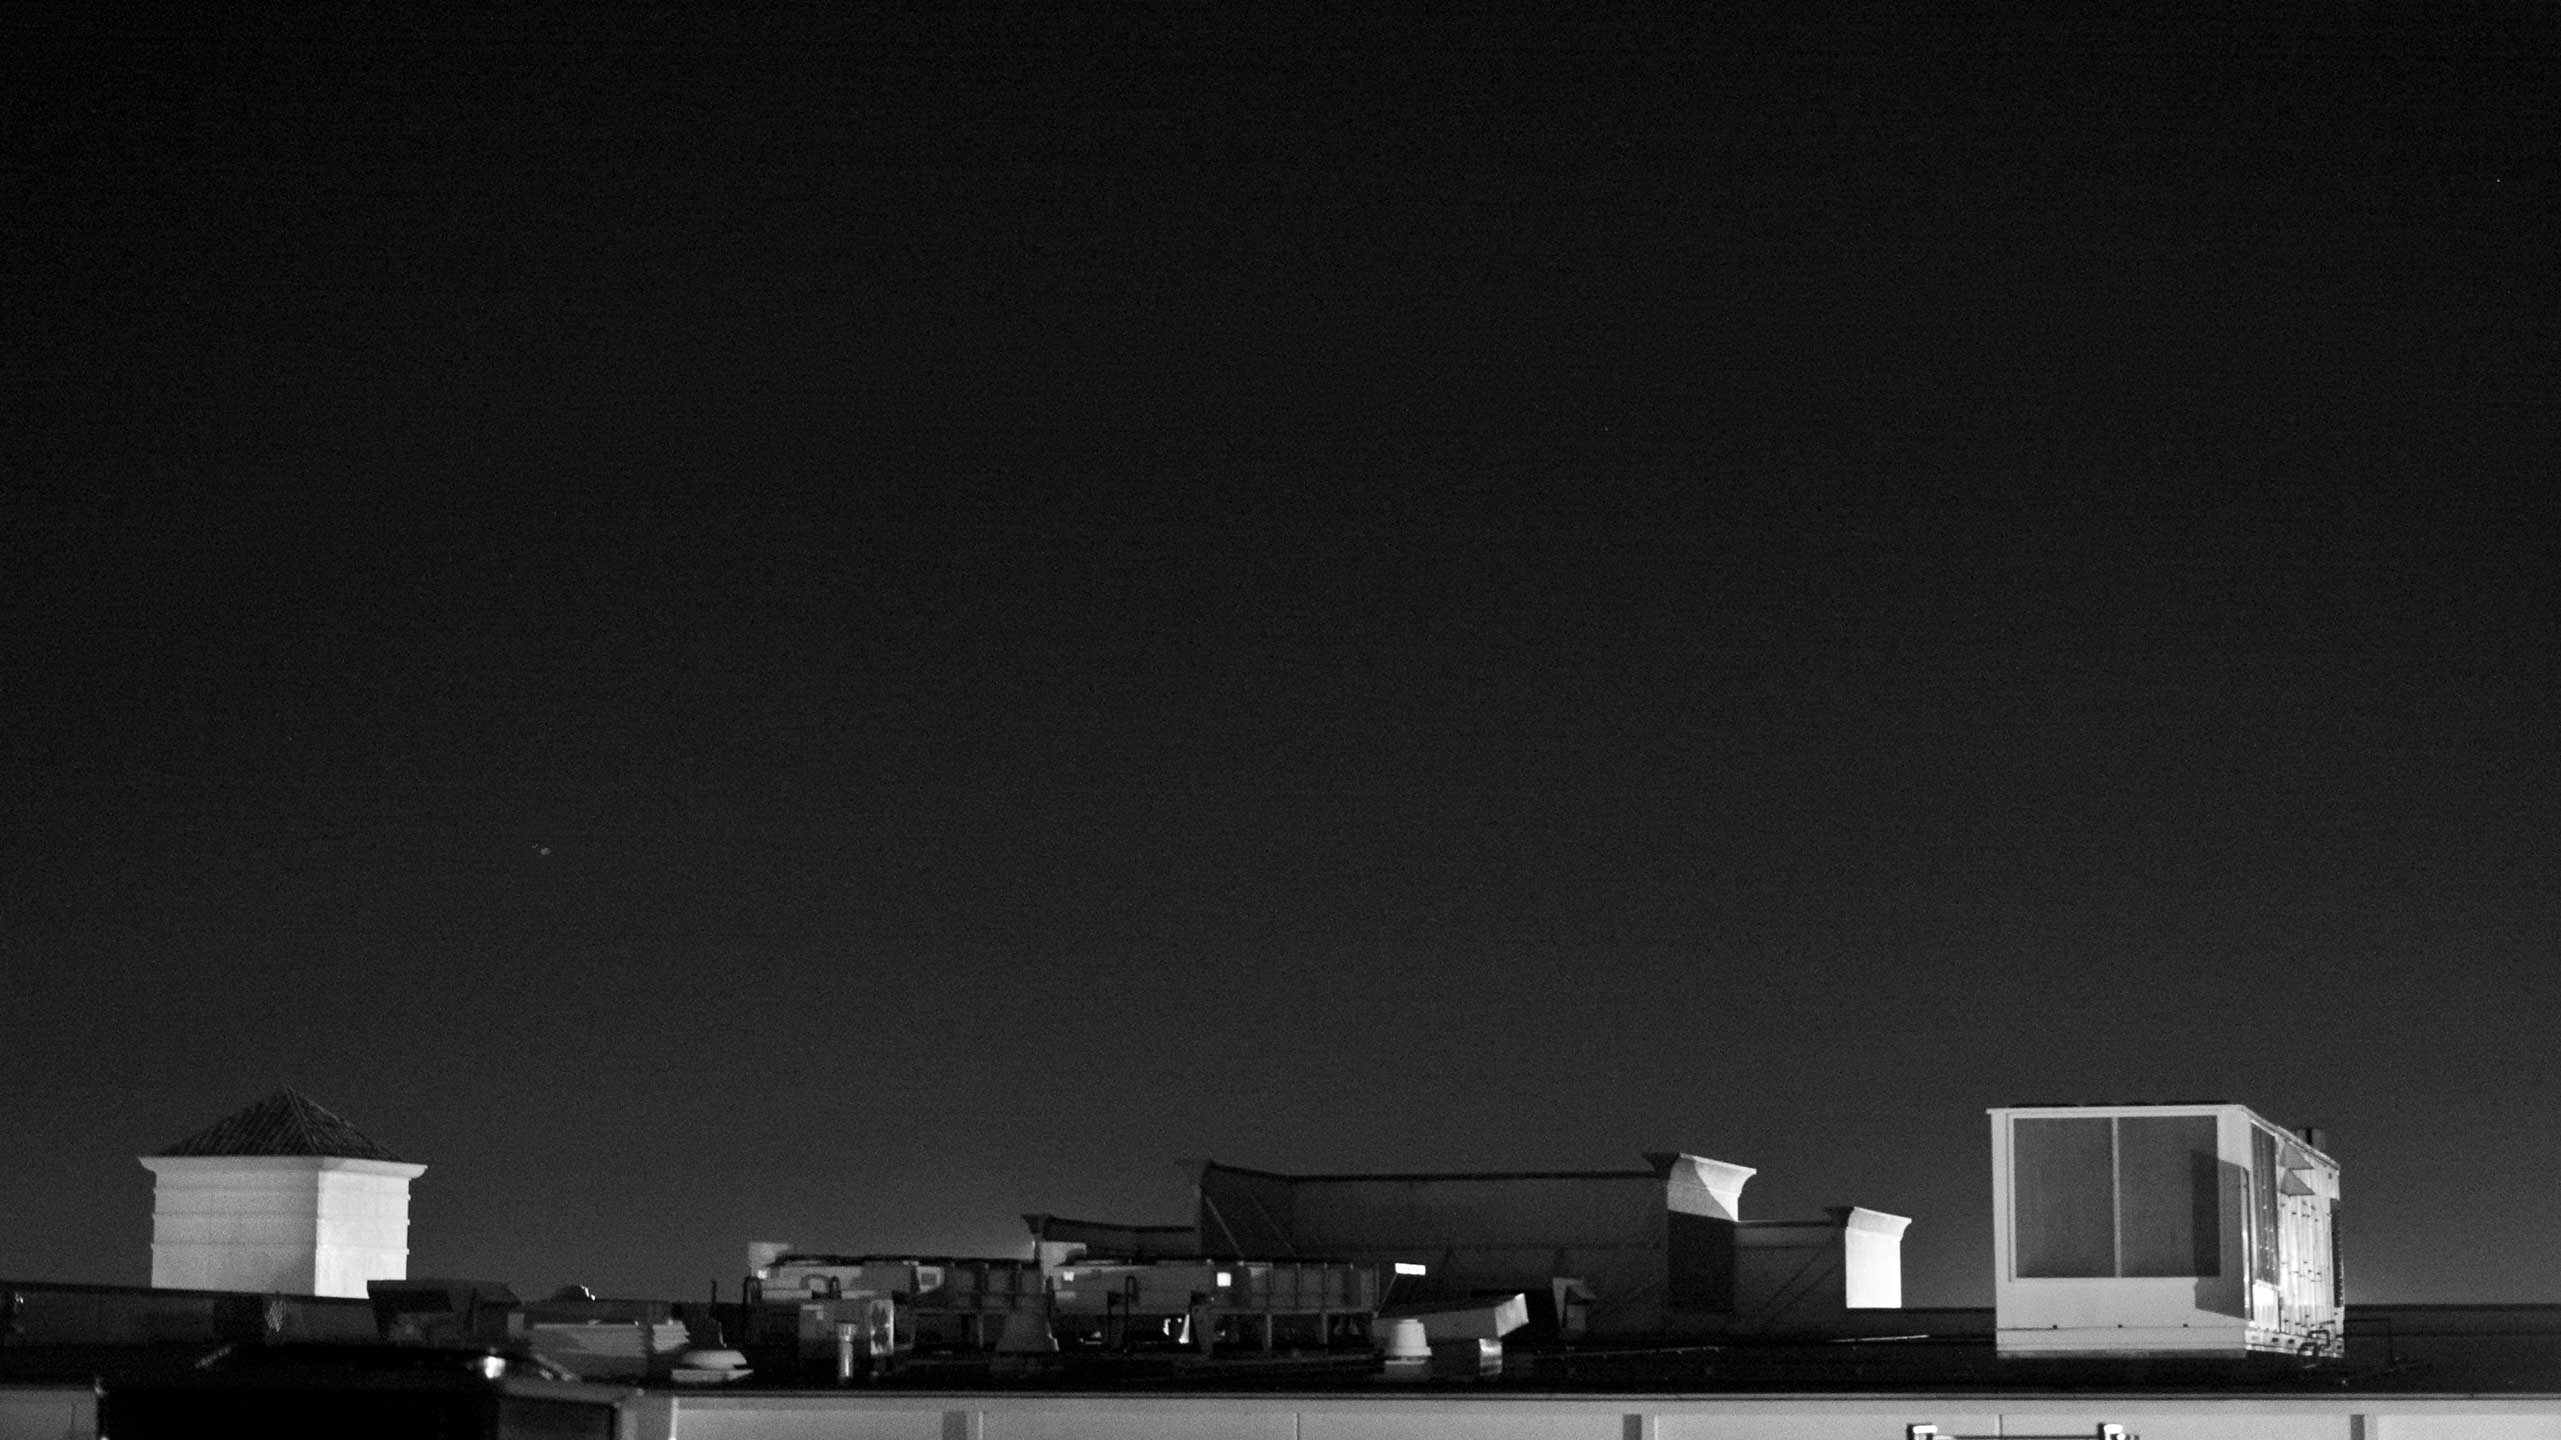
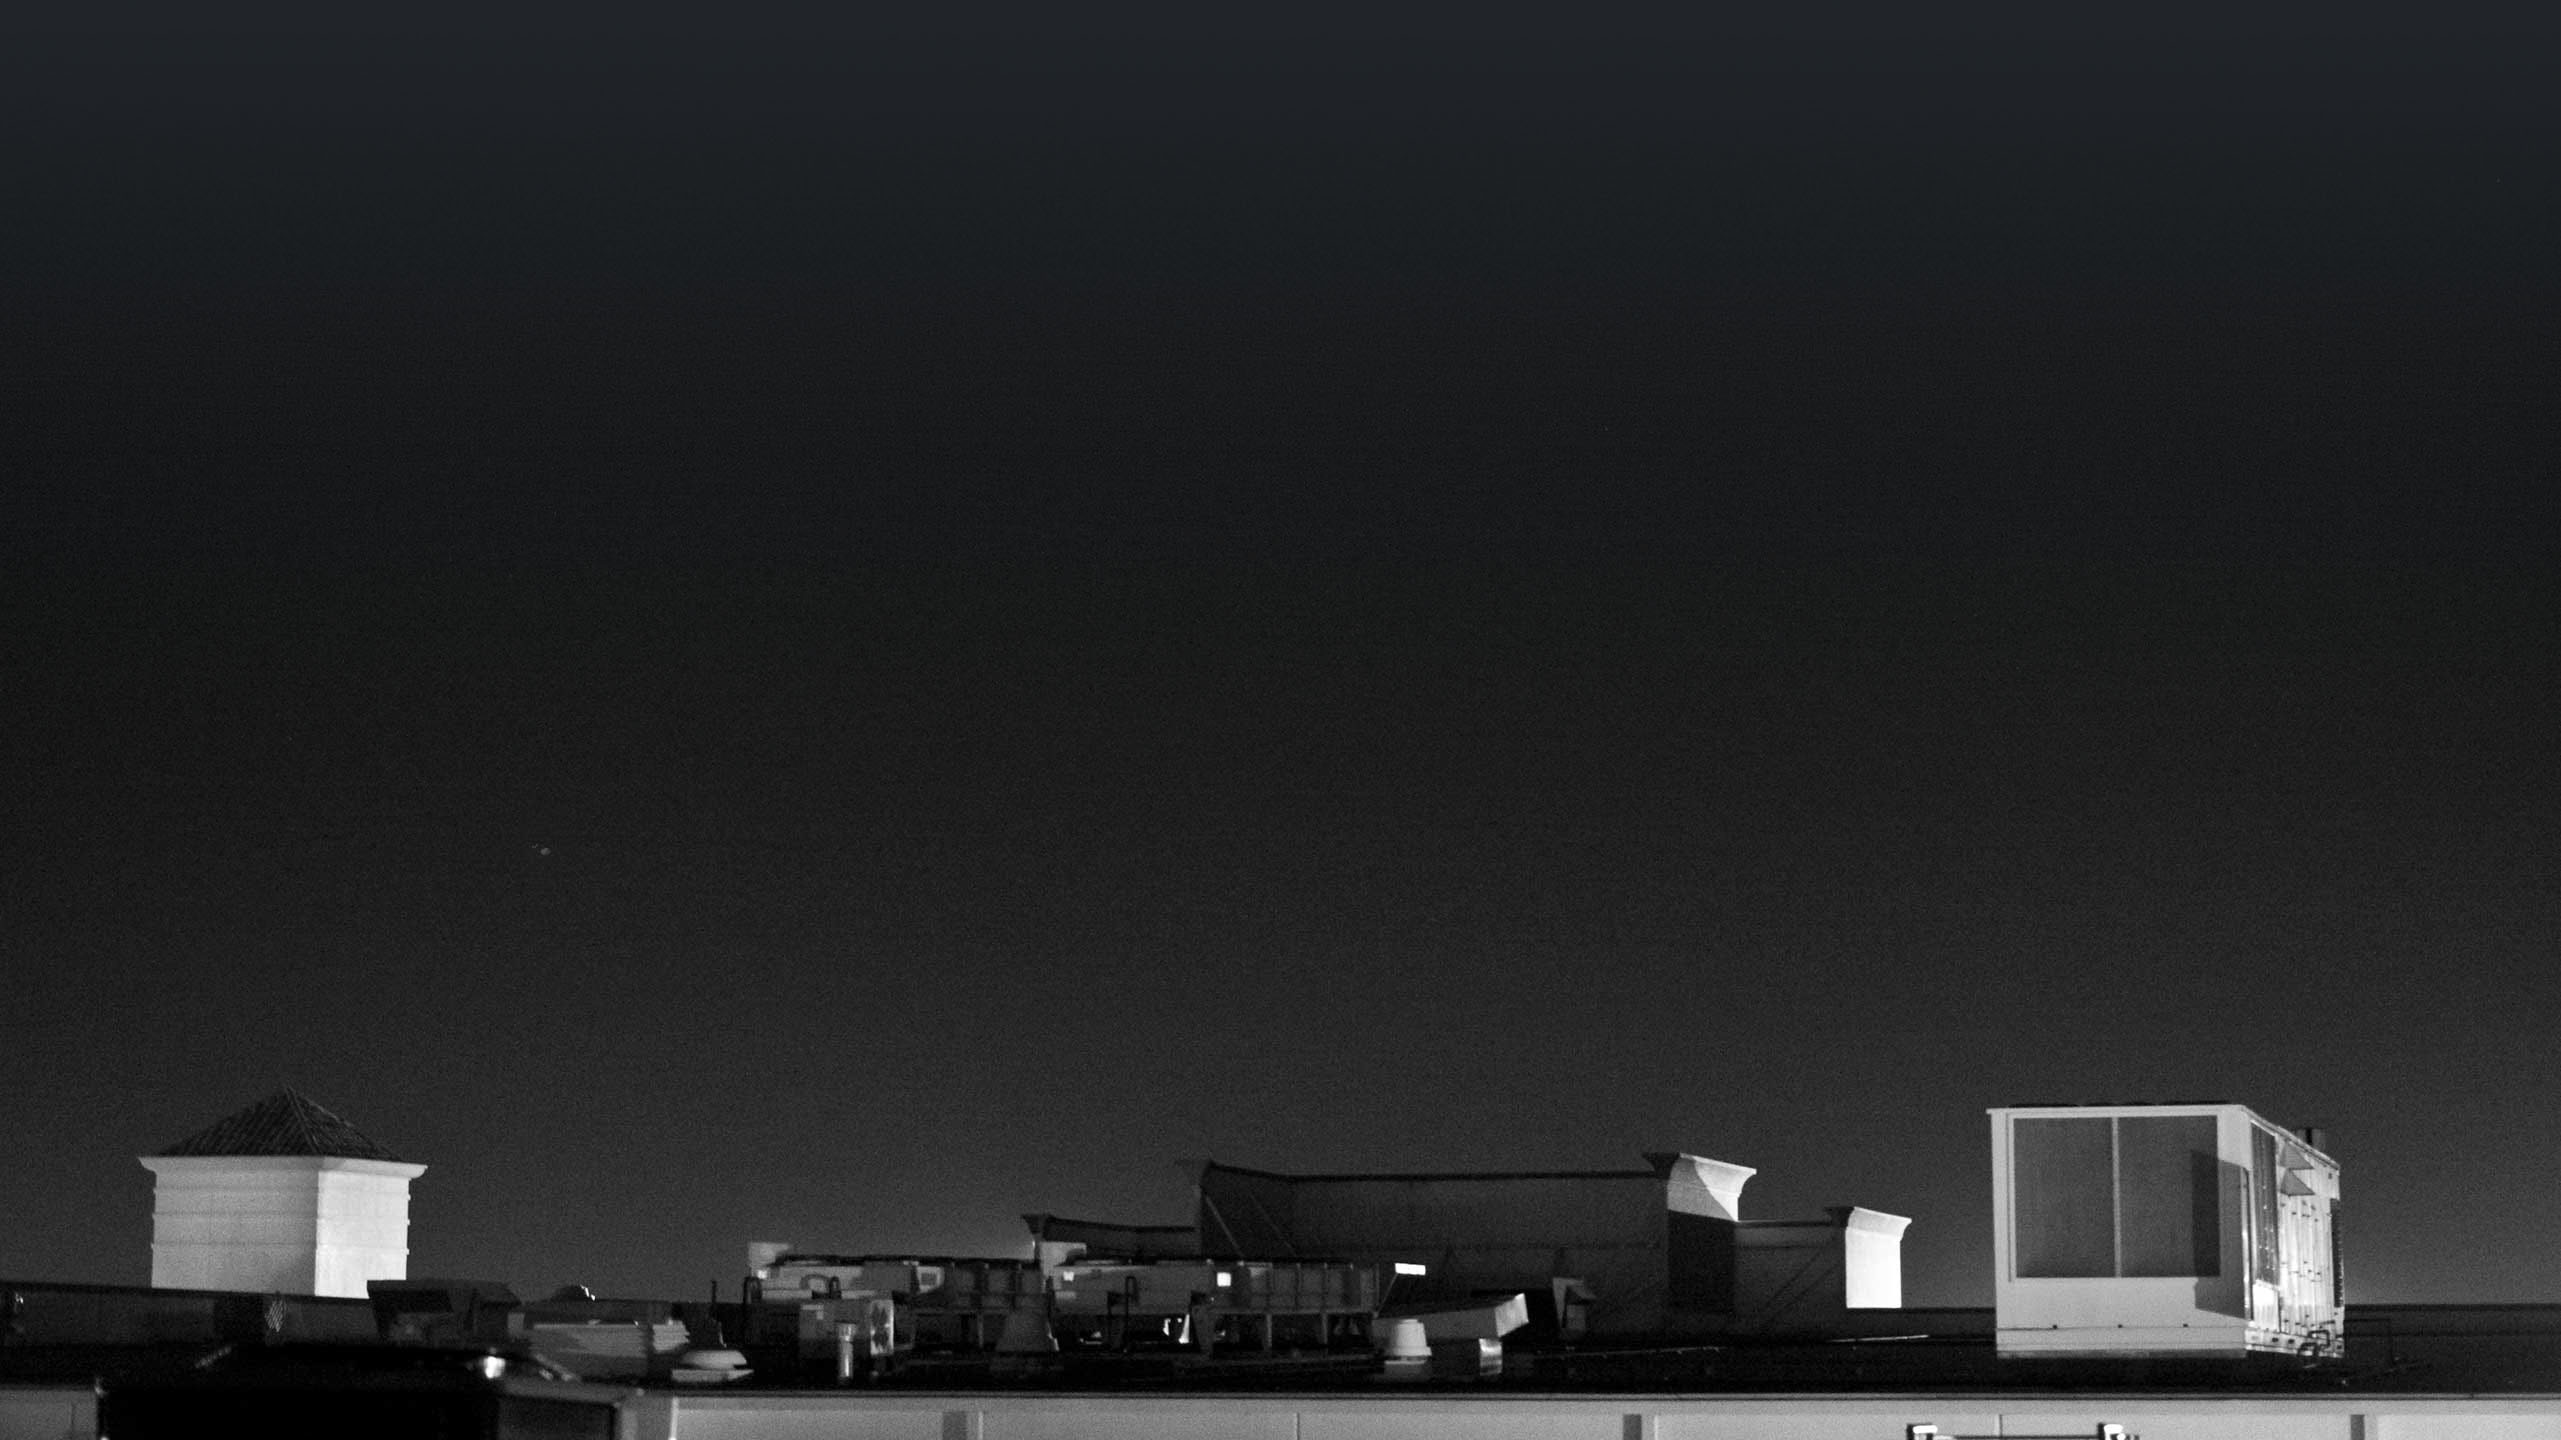
style bg and about

Changed region(s): [[0.0, 0.0, 1.0, 0.1875], [0.9996, 0.1562, 1.0, 0.1875]]

diff --git a/index.html b/index.html
@@ -10,19 +10,21 @@
   </head>
   <body>
     <!--header-->
-    <div class="container sticky-top bg-body border-bottom py-3">
-      <header class="d-flex justify-content-between align-items-center">
-        <div class="d-flex align-items-center">
-          <img src="favicon-32x32.png" alt="SHF logo" width="32" height="32" class="mx-2">
-          <h1 class="mb-0">Sean Fagan Audio</h1>
-        </div>
-        <a href="mailto:shf.inquiry@gmail.com"><i class="bi bi-envelope-fill"></i> shf.inquiry@gmail.com</a>
-      </header>
+    <div class="container-fluid sticky-top bg-body border-bottom py-3 mb-4">
+      <div class="container">
+        <header class="d-flex justify-content-between align-items-center">
+          <div class="d-flex align-items-center">
+            <img src="img/shf-logo.jpg" alt="SHF logo" height="50" class="me-3 border border-2">
+            <h1 class="mb-0 h2">Sean Fagan Audio</h1>
+          </div>
+          <a href="mailto:shf.inquiry@gmail.com"><i class="bi bi-envelope-fill"></i> shf.inquiry@gmail.com</a>
+        </header>
+      </div>
     </div>
     
     <!--reel-->
-    <div class="container bg-dark-subtle d-flex justify-content-center py-5 mb-4">
-      <iframe width="560" height="315" src="https://www.youtube-nocookie.com/embed/qb8RiuRPEl8?rel=0&amp;modestbranding=1" title="Video player" allow="accelerometer; encrypted-media; gyroscope; picture-in-picture" allowfullscreen></iframe>
+    <div class="container bg-dark-subtle d-flex justify-content-center py-4 mb-4">
+      <iframe width="800" height="450" src="https://www.youtube-nocookie.com/embed/qb8RiuRPEl8?rel=0&amp;modestbranding=1" title="Video player" allow="accelerometer; encrypted-media; gyroscope; picture-in-picture" allowfullscreen></iframe>
     </div>
     
     <!--about-->

diff --git a/css/custom.css b/css/custom.css
@@ -17,3 +17,17 @@
   color: #eee;
   background: #eee;
 }
+
+html {
+  background: url('../img/bg-roof.jpg') bottom center no-repeat scroll;
+  background-size: 100%;
+  background-color: #212529;
+}
+
+body {
+  background: linear-gradient(175deg, rgba(35,45,55,1), rgba(20,25,30,1), rgba(35,20,30,0.8));
+}
+
+#about > * {
+  max-width: 60rem;
+}
